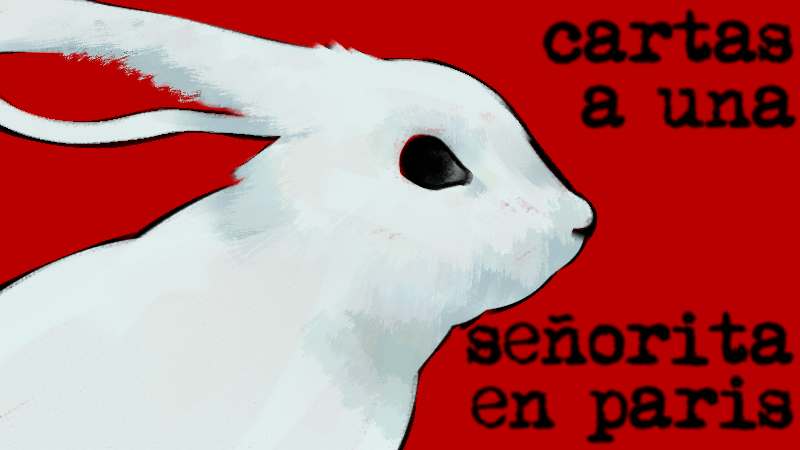
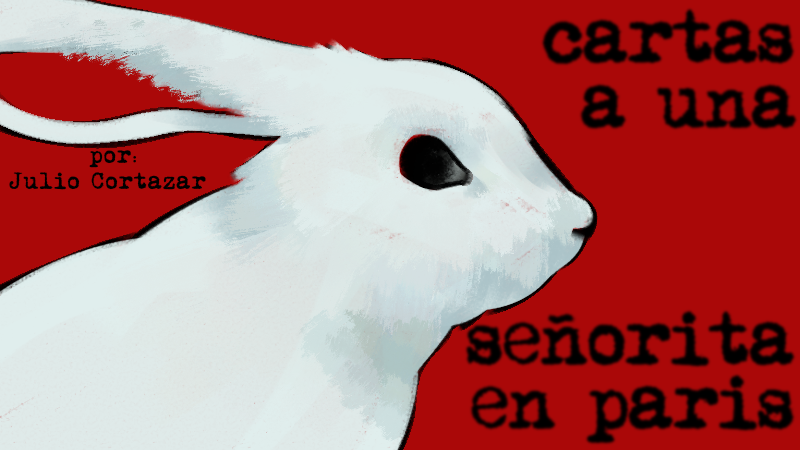
escenas y botones

Changed region(s): [[0.0, 0.3111, 0.25, 0.4356]]

diff --git a/tpfinalparte1/tpfinalparte1.js b/tpfinalparte1/tpfinalparte1.js
@@ -1,10 +1,12 @@
+//Thiago Lionel Costa
+//Sebastian Lopez Alegre
 let caracter_actual = 0;
 let click = false;
 
 // Escenas
-let MENU = 0, ESCENA1 = 1, ESCENA2 = 2, ESCENA3 = 3, ESCENA4 = 4, ESCENA5 = 5, ESCENA6 = 6, ESCENA7 = 7, ESCENA8 = 8, ESCENA9 = 9, ESCENA10 = 10, CREDITOS = 11;
+let MENU = 0, ESCENA1 = 1, ESCENA2 = 2, ESCENA3 = 3, ESCENA4 = 4, ESCENA5 = 5, ESCENA6 = 6, ESCENA7 = 7, ESCENA8 = 8, ESCENA9 = 9, ESCENA10 = 10, ESCENA11 = 11, ESCENA12 = 12,ESCENA13 = 13, ESCENA14 = 14, ESCENA15 = 15, ESCENA16 = 16, ESCENA17 = 17, ESCENA18 = 18, ESCENA19 = 19, CREDITOS = 20;
 let escena_actual = MENU;
-let total_escenas = 11;
+let total_escenas = 20;
 
 // Imagenes
 let escenas = [];
@@ -27,7 +29,7 @@ function preload() {
 
   // Cargar textos
   texto_creditos = loadStrings("assets/texts/creditos.txt");
-  textos = preload_files("assets/texts/pantalla", 11, ".txt", loadStrings, 1);
+  textos = preload_files("assets/texts/pantalla", 20, ".txt", loadStrings, 1);
 }
 
 function setup() {
@@ -40,24 +42,42 @@ function draw() {
   } else if (escena_actual === CREDITOS) {
     draw_creditos();
   } else if (escena_actual === ESCENA1) {
-    dibujar_escenas(ESCENA2, "Continuar");
+    dibujar_escenas(ESCENA2);
   } else if (escena_actual === ESCENA2) {
     dibujar_escenas(ESCENA3);
   } else if (escena_actual === ESCENA3) {
-    dibujar_escenas(ESCENA4, "esconder", ESCENA6, "enfrentar", ESCENA8, "huir");
+    dibujar_escenas(ESCENA4, "Continuar" );
   } else if (escena_actual === ESCENA4) {
-    dibujar_escenas(ESCENA5);
+    dibujar_escenas(ESCENA5, "esconder", ESCENA7, "enfrentar", ESCENA9, "huir");
   } else if (escena_actual === ESCENA5) {
     dibujar_escenas(ESCENA6);
   } else if (escena_actual === ESCENA6) {
-    dibujar_escenas(ESCENA7);
+    dibujar_escenas(ESCENA11);
   } else if (escena_actual === ESCENA7) {
     dibujar_escenas(ESCENA8);
   } else if (escena_actual === ESCENA8) {
-    dibujar_escenas(ESCENA9);
+    dibujar_escenas(ESCENA12);
   } else if (escena_actual === ESCENA9) {
     dibujar_escenas(ESCENA10);
   } else if (escena_actual === ESCENA10) {
+    dibujar_escenas(ESCENA13);
+  }else if (escena_actual === ESCENA11) {
+    dibujar_escenas(ESCENA14, "encerrarlos", ESCENA14, "sacarlos");
+  }else if (escena_actual === ESCENA12) {
+    dibujar_escenas(ESCENA15, "liberarlos", ESCENA15, "adiestrarlos");
+  }else if (escena_actual === ESCENA13) {
+    dibujar_escenas(ESCENA16, "seguir matando", ESCENA16, "parar");
+  }else if (escena_actual === ESCENA14) {
+    dibujar_escenas(ESCENA17);
+  }else if (escena_actual === ESCENA15) {
+    dibujar_escenas(ESCENA18);
+  }else if (escena_actual === ESCENA16) {
+    dibujar_escenas(ESCENA19);
+  }else if (escena_actual === ESCENA17) {
+    dibujar_escenas(CREDITOS);
+  }else if (escena_actual === ESCENA18) {
+    dibujar_escenas(CREDITOS);
+  }else if (escena_actual === ESCENA19) {
     dibujar_escenas(CREDITOS);
   }
   click = false;
